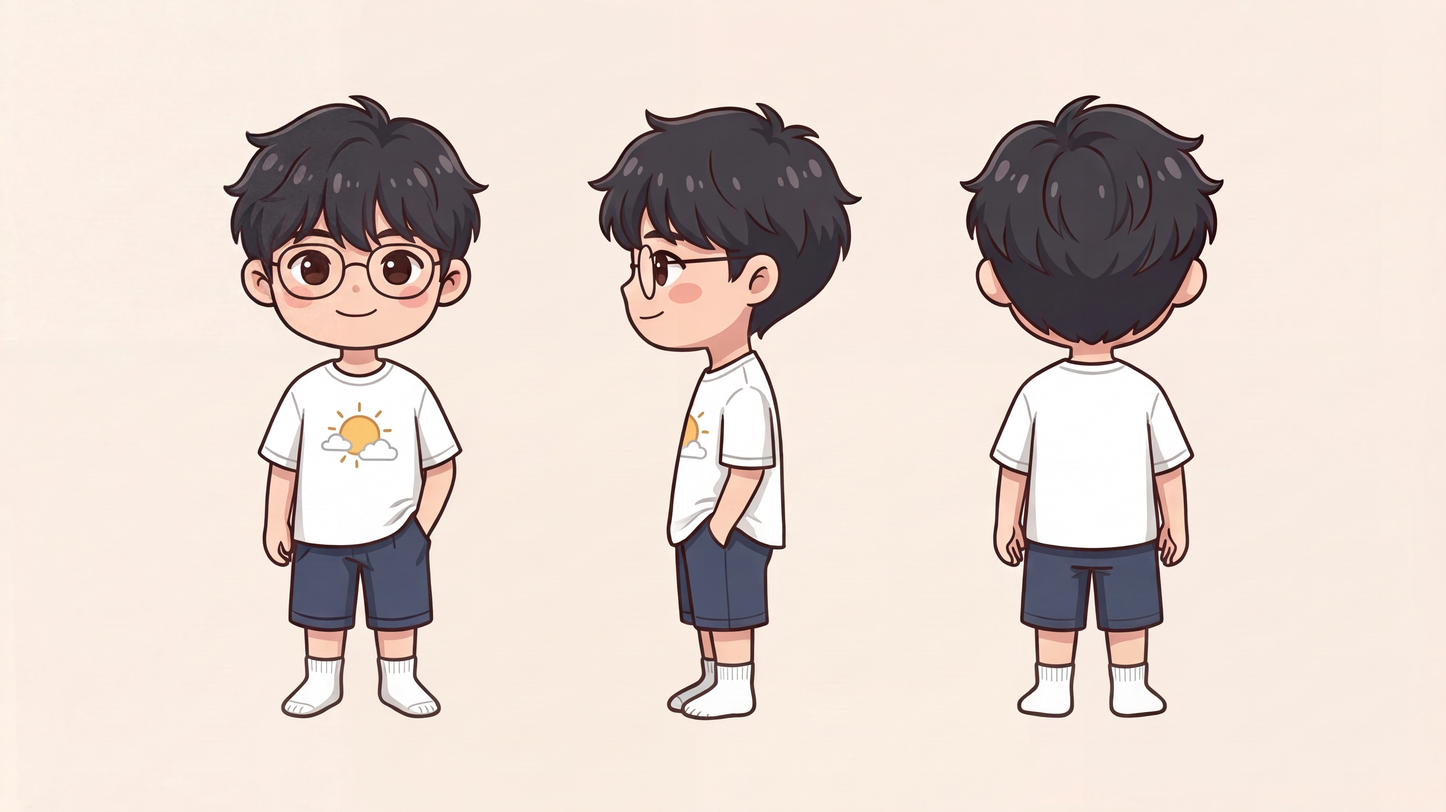
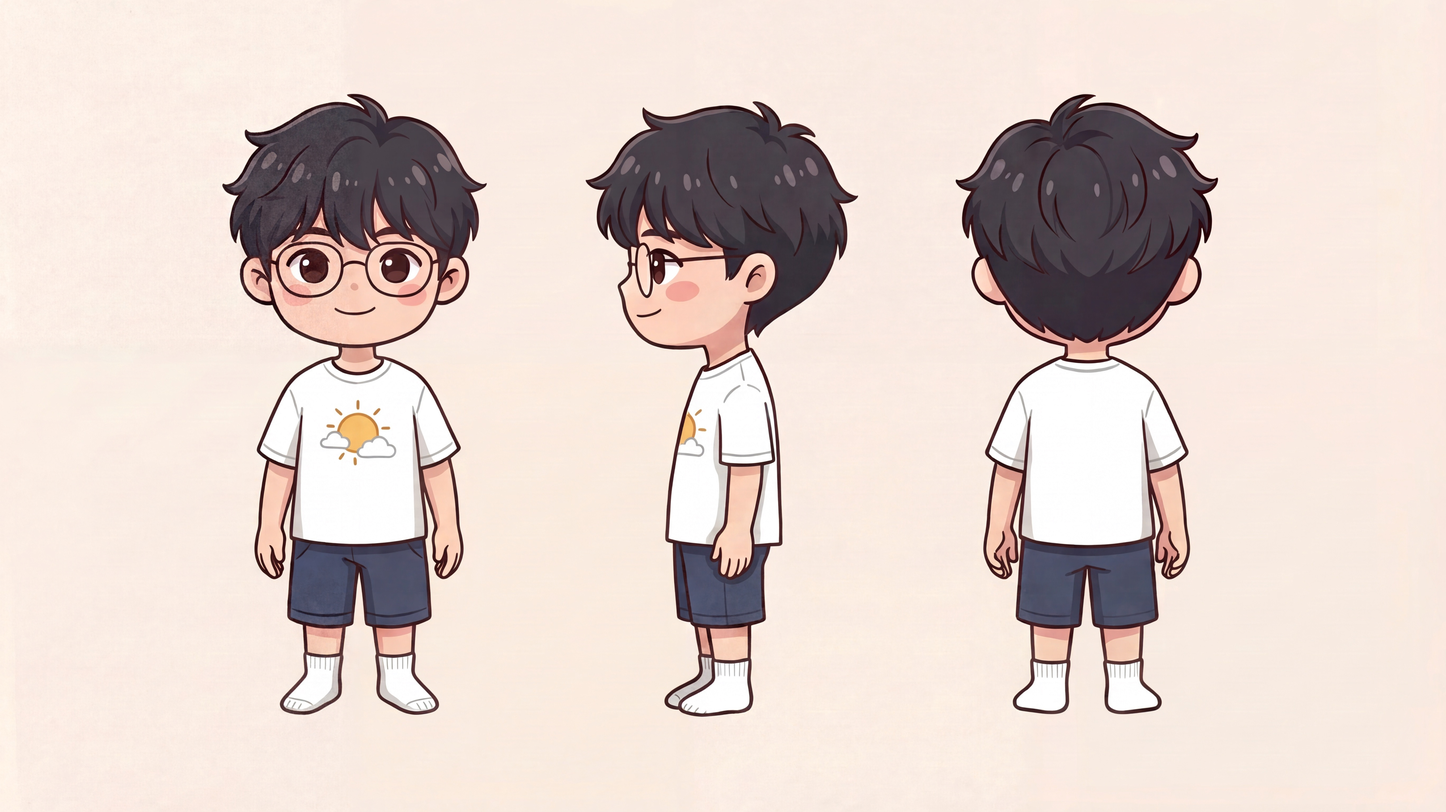
assets: replace Shuaishuai turnaround with the new sheet
New three-view sheet (2026-11-12) has arms hanging down instead of hands in pockets, slightly larger frames. assets/models/shuaishuai.glb has not been rebuilt yet, so the in-game Shuaishuai is still the old model. Logged as C9 in docs/验收问题.md with the write time.

diff --git a/docs/验收问题.md b/docs/验收问题.md
@@ -56,4 +56,5 @@
 | C6 | 风格基线调整（2026-11-12 客户提出）：现有画面偏色块 / 像素感，要线条柔和、接近 3D 游戏世界的观感 | M1 / M2 观感、C5 | 全局风格收拢到 `src/scene/lookdev.ts`：① 平涂 Lambert 全部换成哑光 PBR 材质 + 程序生成的柔光环境照明（仍然离线、零素材）；② 主光阴影改柔边，加环境光遮蔽（墙角、家具底、靠垫缝自然变暗）；③ 家具圆角从 2 厘米加大到 4 厘米（布艺 9 厘米），圆柱加密；④ 地板色块对比与拼缝减淡，织物去掉经纬格线；⑤ 背景改渐变、地台边缘羽化；⑥ 透明墙轮廓线改浅色半透明，`wallFadeOpacity` 0.15→0.08（PBR 下墙更亮，原值会给画面蒙一层雾）；⑦ 4× MSAA。性能兜底：约 3 秒平均帧率 <24 自动关闭遮蔽，`?fx=off` 关闭全部后期。对照图 `docs/screenshots/style-01～04`。墙体仍是直角盒（未做踢脚线 / 圆角墙），角色造型未改，只换了材质 | 待定 |
 | C7 | 笑笑模型重做（2026-11-12 客户提出）：程序化小人问题太多，改用开源工具按三视图建模，尽量贴近原画 | PRD F-03、C4 ①～③⑥ | 用腾讯开源的 Hunyuan3D-2mv（正 / 侧 / 背多视图 → 网格）生成模型，`tools/character/` 的脚本完成对齐、减面、贴图烘焙、蒙皮、眼睑，产物 `assets/models/xiaoxiao.glb`（约 3 万顶点、6 万面、2048 贴图、3.3MB）；`characters.json` 中 `model_type` 改为 `gltf`。骨架、走位、坐姿、待机、眨眼代码沿用（C4 ④⑤⑦ 不变）。对照图 `docs/screenshots/char-01～06`。已知不足：发梢偏碎；坐姿时袖子附近有拉伸；裙子后片无布料垂坠；发卡无厚度。Hunyuan3D-2 为腾讯社区许可（非 MIT），商用前需自行确认。程序化形象保留，`model_type` 改回 `procedural` 即可切回 | 待定 |
 | C8 | 帅帅也按同样方式重做（2026-11-12 客户提出） | PRD F-03、B14（占位形象冻结，作废） | 同 C7 的流水线生成 `assets/models/shuaishuai.glb`（约 3.5 万顶点、6 万面、3.2MB），`model_type` 改为 `gltf`。流水线改成每个角色一份配置（`tools/character/chars/<id>.json`：关键尺寸 + 服装类型 `dress` / `shirt_shorts`），并加了 `--measure` 量尺寸模式。与笑笑的差别：① 他手插在兜里、手臂和身体在网格上长在一起，所以**手臂不单独摆动**，整体跟着上身（走路时手不前后摆，坐下时手也不搭膝）；② 眼镜是画在脸上的贴图，没有立体镜框，侧面看不到镜腿；③ 三视图里正面是左手插兜、背面两手都垂着，模型取的是正面和侧面的姿势。占位小人代码保留（`model_type: placeholder`）。对照图 `docs/screenshots/char-07～11` | 待定 |
+| C9 | 帅帅三视图换版（2026-11-12 客户提供新图）：同一套造型（黑短发、圆框细边眼镜、白 T 胸前暖黄小太阳＋两朵白云、藏蓝短裤、白短袜、三头身）重画的正面 / 侧面 / 背面三视图；与旧图相比双手自然下垂（旧图正面与侧面是手插在兜里），镜框略大、发梢更利落 | PRD 顶部帅帅三视图及说明、C8 ①（原写「他手插在兜里、手臂和身体在网格上长在一起，所以手臂不单独摆动」，前提随新图改变） | 已用新图覆盖 `assets/shuaishuai_q_turnaround.jpg`（旧图仍在提交 94d400d 里）；PRD 引用路径不变，`shuaishuai.rig.json` 的 `source.reference` 也不必改。**模型暂未重建**：`assets/models/shuaishuai.glb` 与 `char-07～11` 截图仍是按旧图生成的，画面里的帅帅还是旧版。待客户安排后按 [tools/character/README.md](../tools/character/README.md) 重新建模、重新渲染截图，届时可评估双手下垂是否为手臂单独摆动留出空间。本条写入时间：2026-11-12 23:50（UTC+08:00） | 待定 |
 | C3 | `camera.json` 的 `target` 与方位角的坐标含义文档未写明 | — | `target = [平面 x, 高度, 平面 y]`（米）；`startAzimuthDeg` 为相机相对目标点在平面图上的方位，从 +x 逆时针计（225° = 左下方，看向右上）；`*PolarDeg` 为与竖直向上方向的夹角 | 执行者约定 |

diff --git a/README.md b/README.md
@@ -135,6 +135,7 @@ tools/character/  三视图 → 角色模型的建模流水线（Python，仅重
 
 | 日期 | 里程碑 | 能演示什么 | 截图 |
 | --- | --- | --- | --- |
+| 2026-11-12 | 帅帅三视图换版 | 按客户新版三视图替换 `assets/shuaishuai_q_turnaround.jpg`（双手下垂、不再插兜）；`shuaishuai.glb` 暂未按新图重建，画面仍是旧版帅帅，详见 docs/验收问题.md C9 | — |
 | 2026-11-11 | M1 场景与相机 | 按配置生成一室一厅（真实门洞、落地窗、卧室窗、11 件家具）；自由环绕 + 滚轮缩放；挡视线的墙自动透明留轮廓；改配置即生效，配置错误启动即报错 | `docs/screenshots/m1-01-default.png` 默认视角；`m1-02`～`m1-04` 另外三个方向；`m1-05-top` 俯视；`m1-06-far-low` 最远最低；`m1-07-near` 最近；`m1-08-sofa-moved` 改沙发坐标；`m1-09-room-added` 加房间 |
 | 2026-11-12 | M2 整改（笑笑形象、坐姿、待机、接触阴影、家具圆角与材质） | 按 docs/验收问题.md C4/C5 整改并复验 M2；帅帅占位不变 | `m2-b-turnaround` 新三视图；`m2-i-blink` 眨眼帧；`m2-h-seated-pose` 坐姿三视图；`m2-e-seated-sofa` 沙发上；`m2-d-seated-desk` 电脑椅上；`m2-a-front` 正面（脚下接触阴影）；`m2-j-door-fillet` 门洞圆角与木纹 |
 | 2026-11-11 | M2 角色与走位 | Q 版笑笑（三视图对照）；寻路穿门洞走到床边、不穿墙不穿家具；走到椅子后停住、转身、坐下；坐着换座位先起身；无解原地停 + 警告；拉近看清脸；占位帅帅可切换 | `m2-b-turnaround` 三视图；`m2-a-front` 屋内正面；`m2-c-walking` 走路中（虚线为路径）；`m2-c-at-bedside` 到床边；`m2-d-seated-desk` 坐电脑椅；`m2-e-seated-sofa` 坐沙发（最近距离看脸）；`m2-f-walking-stride` 走向窗边；`m2-g-placeholder-shuaishuai` 占位帅帅 |
